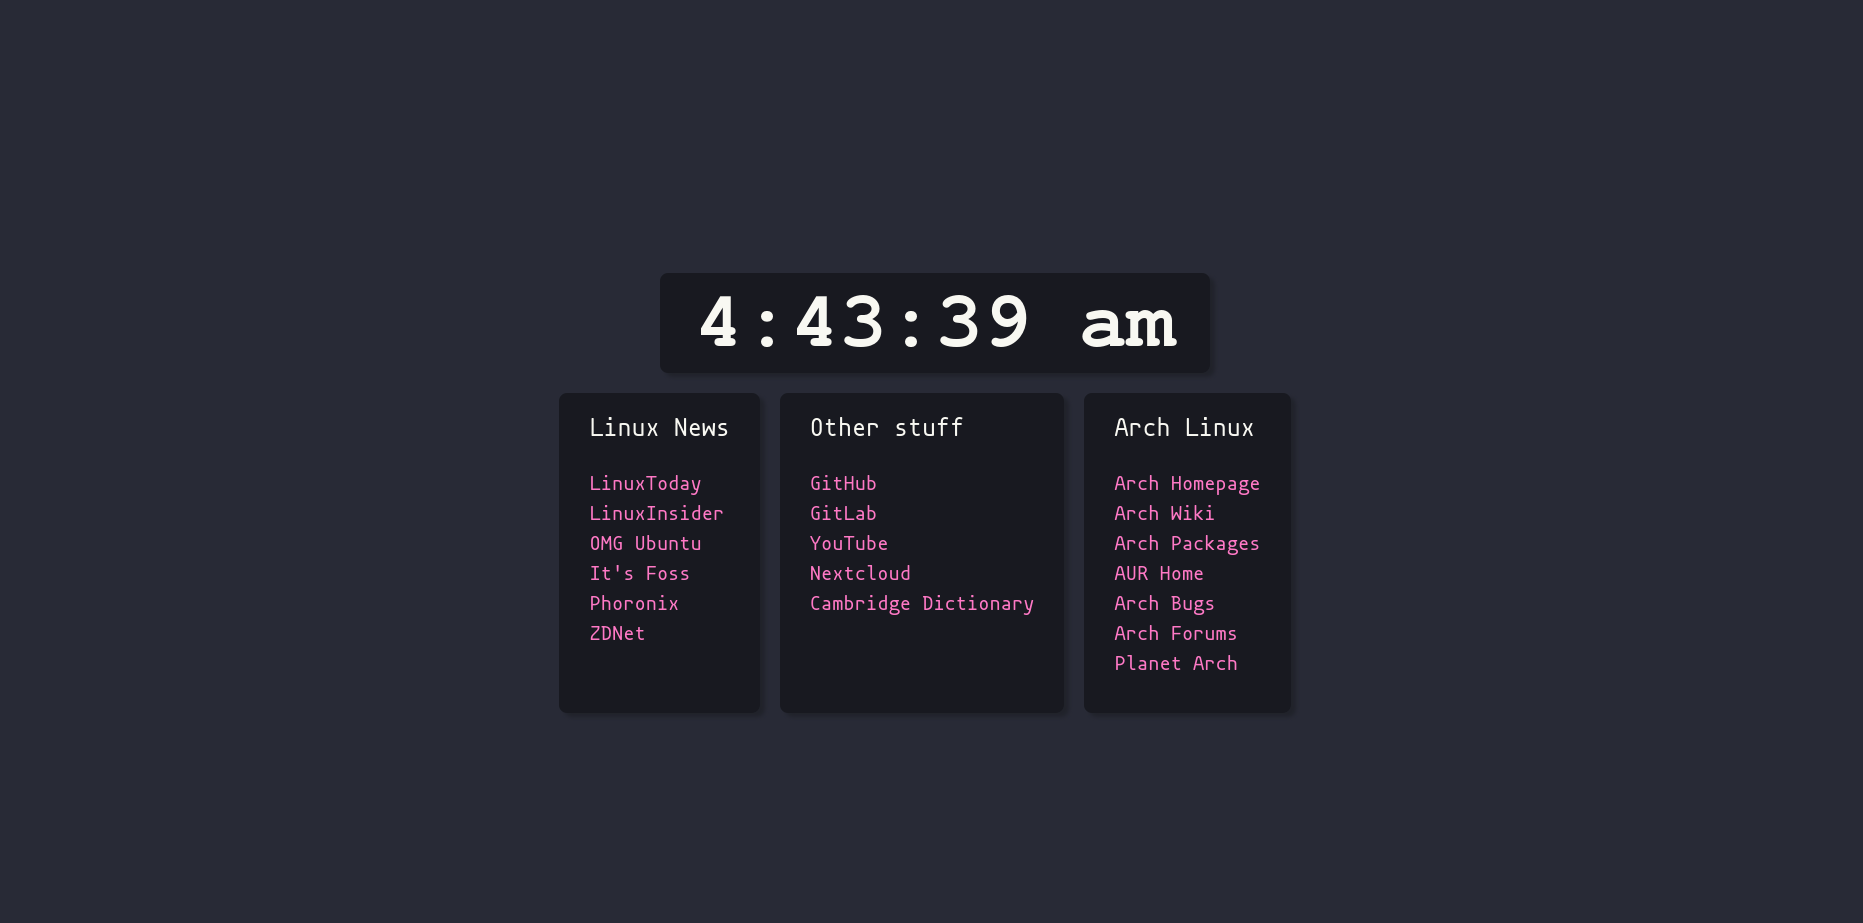
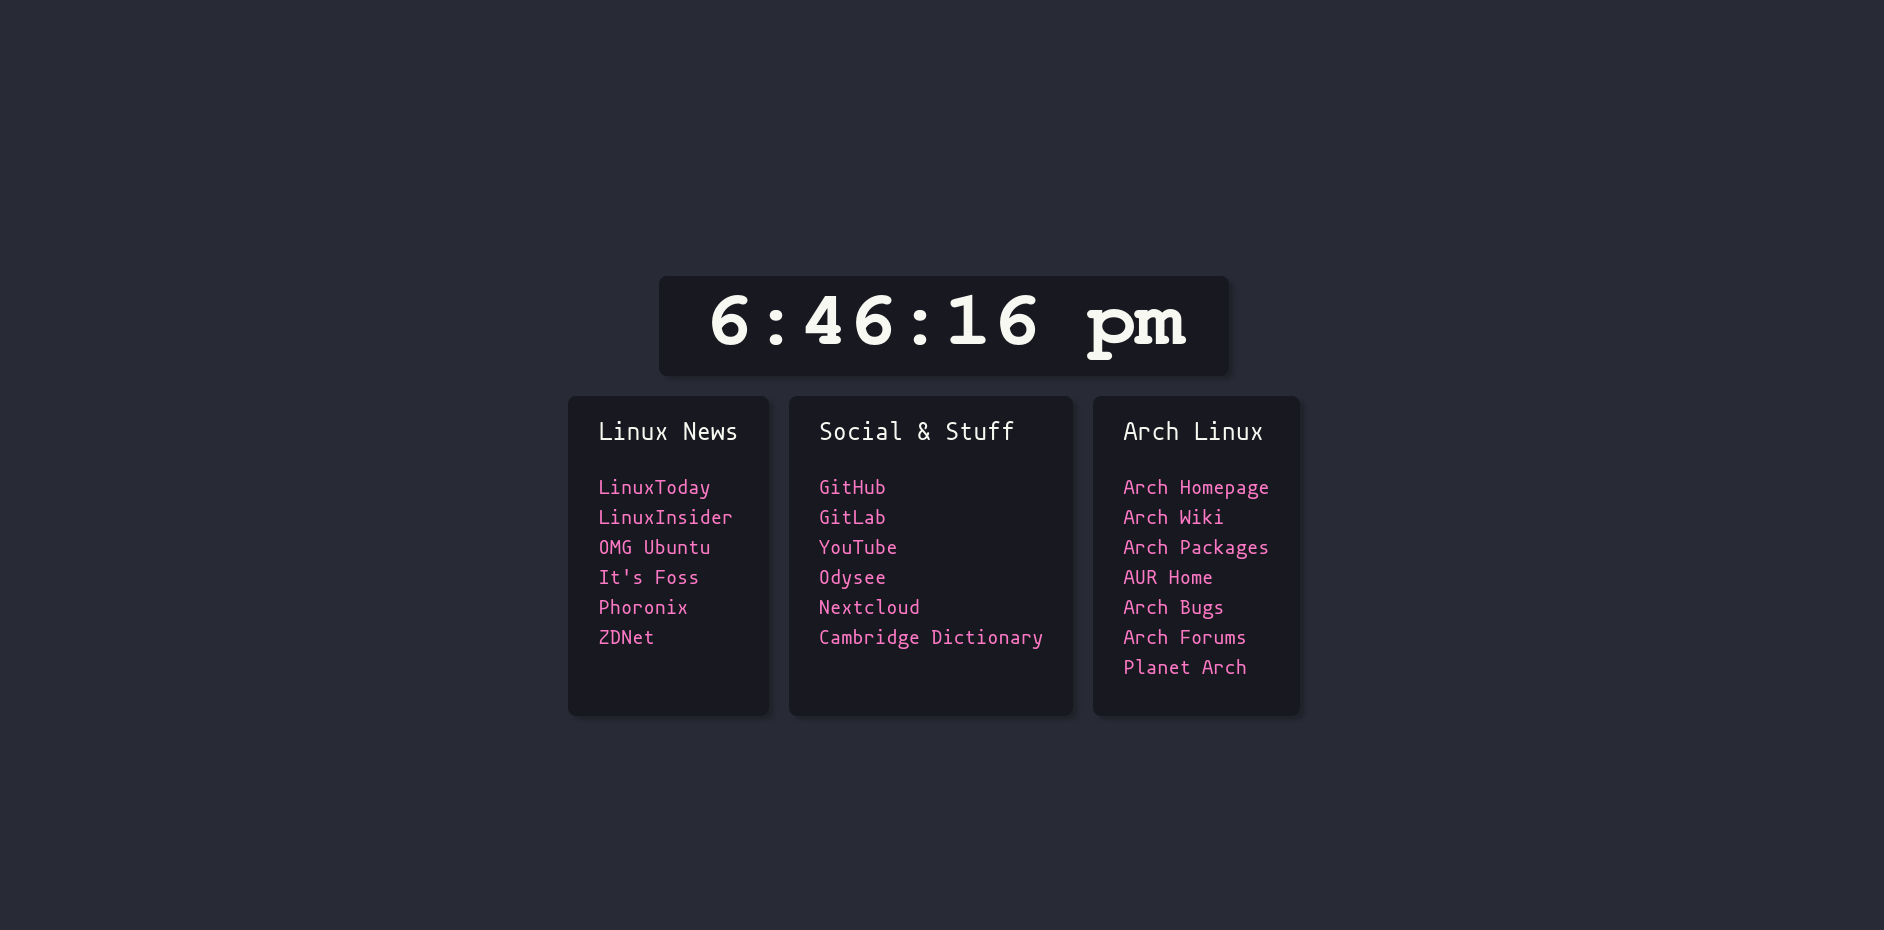
Added new link and changed README to an org document.

diff --git a/src/index.html b/src/index.html
@@ -27,14 +27,13 @@
           <a href="https://www.zdnet.com/topic/linux/">ZDNet</a>
         </div>
         <div class="box">
-          <div class="title">Other stuff</div>
+          <div class="title">Social & Stuff</div>
           <a href="https://github.com/rasteli">GitHub</a>
           <a href="https://gitlab.com/glr01">GitLab</a>
           <a href="https://youtube.com">YouTube</a>
+          <a href="https://odysee.com/">Odysee</a>
           <a href="https://sam.nl.tab.digital/login">Nextcloud</a>
-          <a href="https://dictionary.cambridge.org/us/"
-            >Cambridge Dictionary</a
-          >
+          <a href="https://dictionary.cambridge.org/us/">Cambridge Dictionary</a>
         </div>
         <div class="box">
           <div class="title">Arch Linux</div>

diff --git a/src/index.css b/src/index.css
@@ -25,7 +25,8 @@ body {
   box-shadow: 5px 4px 3px #20222a;
 
   display: flex;
-  height: 100px;
+  height: 80px;
+  padding: 10px;
 }
 
 .main .links {
